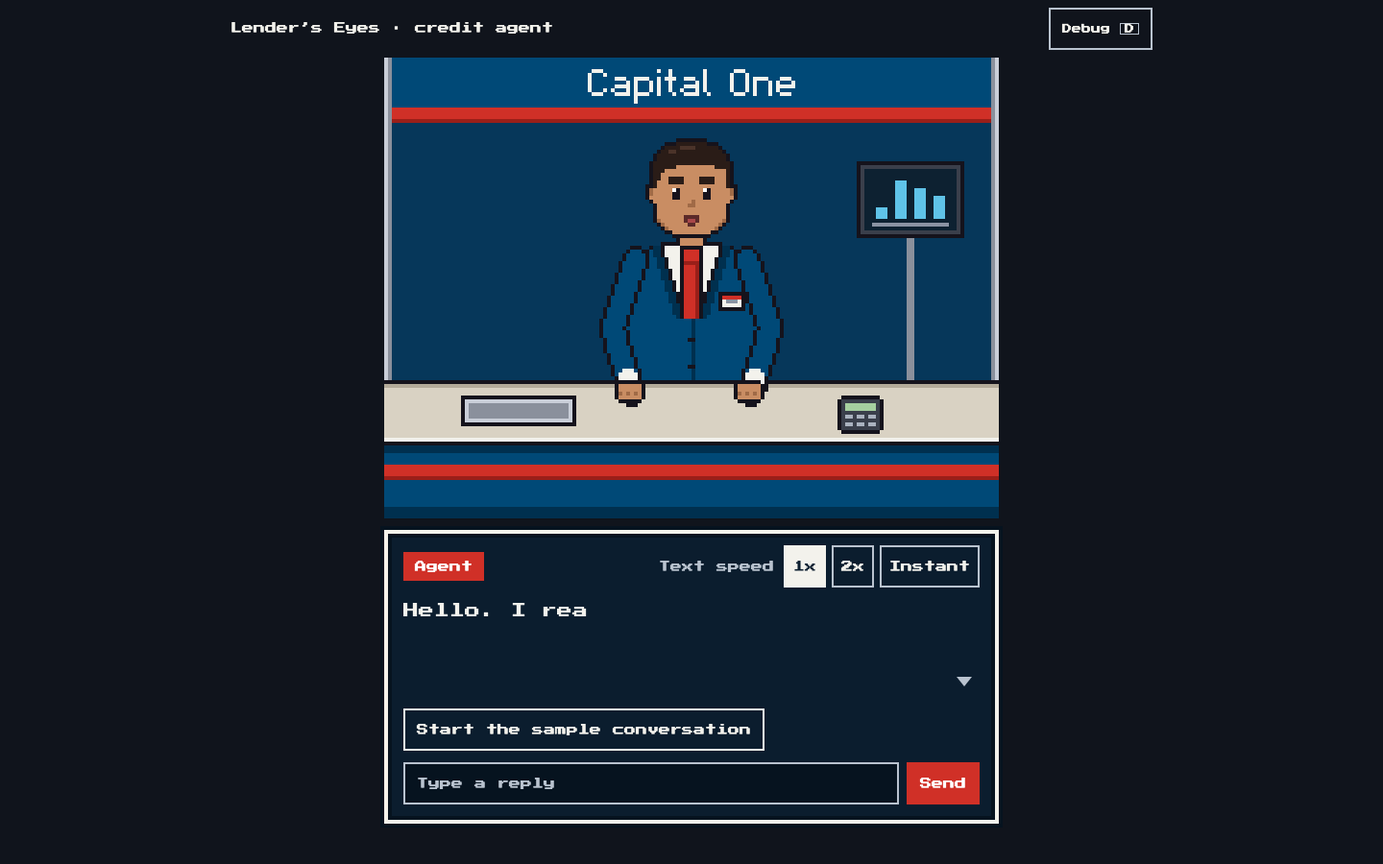
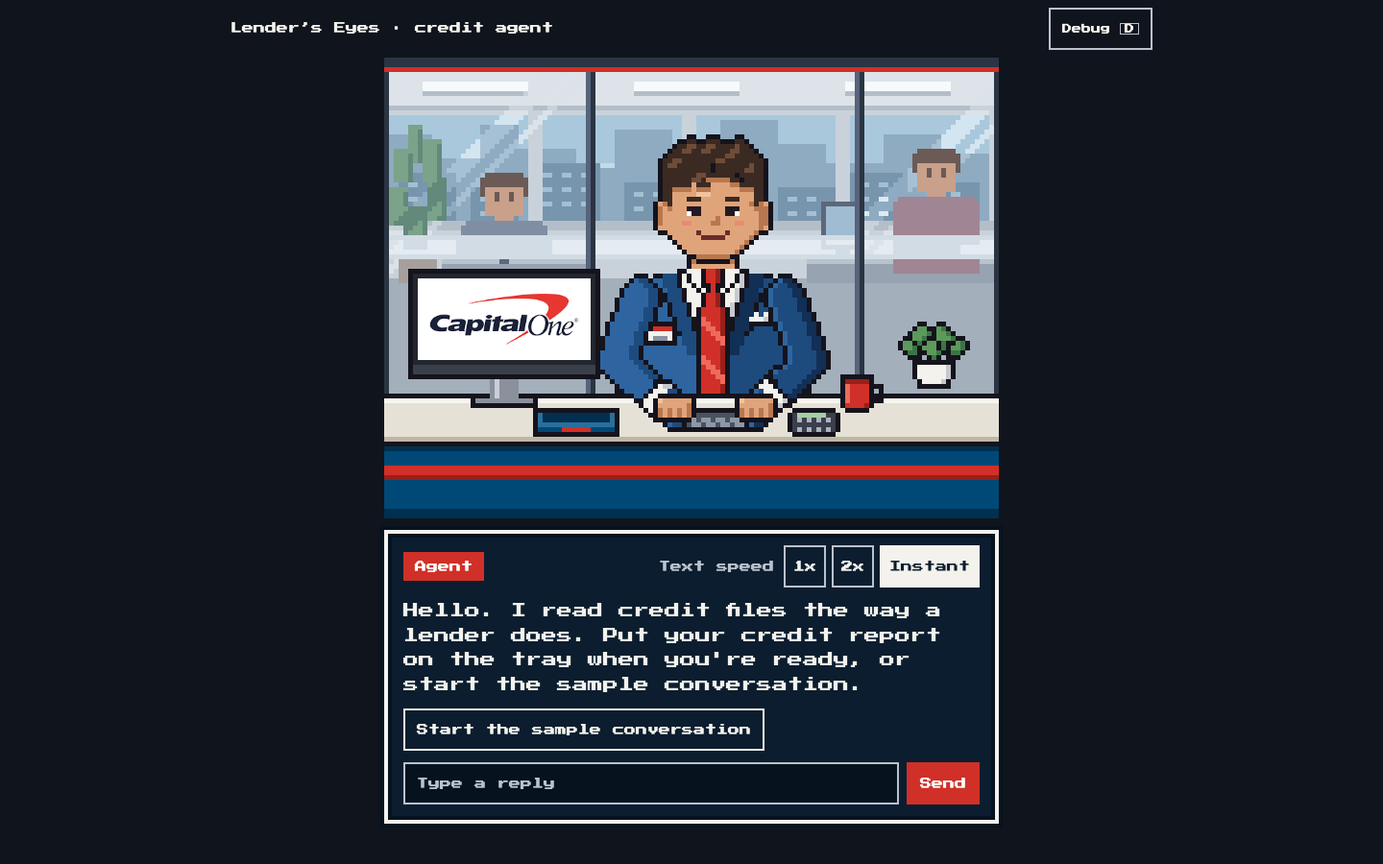
110: open palm clear of the monitor, ART-GUIDE for the 110 style, disclosures, new contact sheets, options and backgrounds; round comparisons stay local (they show the refs)

Changed region(s): [[0.25, 0.0622, 0.75, 0.5289], [0.2812, 0.6222, 0.7188, 0.8089]]

diff --git a/app/npc-concept/src/npc/engine.ts b/app/npc-concept/src/npc/engine.ts
@@ -73,8 +73,8 @@ export const ARM_POSES = {
   raiseL: arm(-1, 41, -3, 28, 'open'),
   waveL1: arm(-2, 35, -5, 18, 'open'),
   waveL2: arm(-1, 34, 1, 16, 'open'),
-  // open palm: forearm out to the side, hand presented at chest height
-  palmL: arm(0, 47, -9, 40, 'openL'),
+  // open palm: forearm raised in front of the chest, palm presented to the customer (clear of the monitor)
+  palmL: arm(-2, 49, 5, 37, 'openL'),
   // reach to the tray (screen left) and back
   reach1L: arm(1, 47, -2, 53, 'open'),
   reach2L: arm(-3, 49, -6, 56, 'open'),

diff --git a/app/npc-concept/src/npc/NpcScene.tsx b/app/npc-concept/src/npc/NpcScene.tsx
@@ -245,7 +245,7 @@ export const NpcScene = forwardRef<NpcHandle, NpcSceneProps>(function NpcScene(p
           type="button"
           className="npc-hotspot"
           style={box(PAPER_HOT, s)}
-          aria-label="Summary sheet on the counter. Open your summary."
+          aria-label="Summary sheet on the desk. Open your summary."
           data-npc-hotspot="paper"
           onClick={() => propsRef.current.onPaperClick?.()}
           onMouseEnter={() => engineRef.current?.setPaperHover(true)}

diff --git a/app/npc-concept/ART-GUIDE.md b/app/npc-concept/ART-GUIDE.md
@@ -1,6 +1,6 @@
 # Credit agent: art guide
 
-The rules for the pixel-art credit agent and its stand. The code in `src/npc/` is the source of truth; this file explains it. Every state, emote and gesture is in `screens/contact-sheet.png` (iPhone 15, WebKit), at 25% in `screens/contact-sheet-small.png`, and at desktop size in `screens/contact-sheet-desktop.png`.
+The rules for the pixel-art credit agent, his desk and the glass wall office behind him (since handoff 110). The code in `src/npc/` is the source of truth; this file explains it. Every state, emote and gesture is in `screens/contact-sheet.png` (iPhone 15, WebKit), at 25% in `screens/contact-sheet-small.png`, and at desktop size in `screens/contact-sheet-desktop.png`. The facial hair options are in `screens/options.png`, the background variants in `screens/backgrounds.png`.
 
 Tone: game look, real help. The agent is calm, warm and direct. No points, levels, jokes or mascot antics.
 
@@ -10,7 +10,7 @@ Tone: game look, real help. The agent is calm, warm and direct. No points, level
 ```
 cd app/npc-concept && pnpm install && pnpm dev --host   # http://localhost:5173 and a Network: URL for the phone
 ```
-The phone on the same wifi opens the `Network:` URL (see `app/DEMO.md`). Tap **Debug** (top right) or press `D` for the debug panel: buttons for every state, emote and gesture, plus "Play sample conversation".
+The phone on the same wifi opens the `Network:` URL (see `app/DEMO.md`). Tap **Debug** (top right) or press `D` for the debug panel: buttons for every state, emote and gesture, the facial hair and background switches, plus "Play sample conversation".
 
 ## Lifting it into 102 (frontend)
 1. Copy `src/npc/` unchanged. It imports nothing from outside the folder except React.
@@ -26,73 +26,100 @@ const reduced = usePrefersReducedMotion()
 <DialogueBox line={line} width={NATIVE_W * scale} speed={speed} onSpeedChange={setSpeed} reducedMotion={reduced}
   onChar={c => npc.current?.talk(c)} onLineDone={() => npc.current?.stopTalking()} chips={chips} onChip={...} onSubmit={...} />
 npc.current?.setState('reading'); npc.current?.emote('concerned'); npc.current?.gesture('point-down')
+// optional since 110: <NpcScene facialHair="moustache" background="evening" ... /> or npc.current?.setFacialHair('stubble')
 ```
 `npc.css` (imported by `index.ts`) uses `npc-` class names only, and its class selectors win over Tailwind's preflight. `src/App.tsx` is a full example, including the sample conversation runner.
 
-**API since 108:** `NpcHandle` and the `DialogueBox` props are unchanged. `NpcScene` gained one optional prop, `wordmarkSrc` (see Wordmark). `useIntegerScale` keeps its signature; on screens under 640 CSS px it no longer reserves a side gutter. `NpcEngine` gained `setOutput()` and `setWordmarkVisible()` (used by `NpcScene`). The canvas backing store is now device resolution, not 160x120: read pixels from a screenshot, not from `getImageData` at native coordinates.
+**API since 110:** nothing removed or renamed. Added, all optional: `NpcScene` props `facialHair` (`'none' | 'moustache' | 'stubble'`, default `'none'`) and `background` (`'day' | 'evening'`, default `'day'`); `NpcHandle.setFacialHair()` and `setBackground()`; `NpcSnapshot.facialHair` and `.background`; exports `FACIAL_HAIR`, `BACKGROUNDS`, `BACKGROUND_NAMES` and their types. `NATIVE_W` x `NATIVE_H` is now 128 x 96 (still 4:3), so the scene is chunkier at the same screen size. `wordmarkSrc` keeps its name; the logo now shows on the desk monitor.
+
+**API since 108 (109 notes):** `NpcHandle` and the `DialogueBox` props are unchanged. `NpcScene` gained one optional prop, `wordmarkSrc` (see Logo). `useIntegerScale` keeps its signature; on screens under 640 CSS px it no longer reserves a side gutter. `NpcEngine` gained `setOutput()` and `setWordmarkVisible()` (used by `NpcScene`). The canvas backing store is now device resolution, not 160x120: read pixels from a screenshot, not from `getImageData` at native coordinates.
 
 ## Style
-- Classic chunky pixel-art character: a big head (26 px of a 64 px visible figure), a bold 1 px `outline` around every shape (head, hair, body, sleeves, hands, held items), flat colours with one shade each, big readable pixels and low detail.
-- The face must read from far away: dark eyes (2x3) with a 1 px white highlight, eyebrows 2 px thick, a clear mouth.
-- Original character: a businessman. Short neat hair with a side shine, navy suit, white shirt, red tie, a small white name badge with a red bar. No hat, coat, magnifying glass or likeness to any existing game character, mascot or real person.
-- Torso only: head, shoulders, arms and hands above the counter.
-- Gestures move the whole arm, never a few pixels, so each one reads in a thumbnail.
-- The backdrop stays calm (navy panel, red band, wordmark) so the face carries the conversation. One ambient touch only: the stand screen, behind the `ambient` flag.
+Target: indie pixel-art avatars (the user's style refs, kept locally in `refs/`, never in the app or the repo). "Do more with less": few, chunky pixels, each one deliberate.
+
+**Checklist** (every round was checked against it, see handoff 110 RESULT):
+1. Reads as the same style as the style refs at phone size: a chunky dark outline (`outline`) around every shape, flat colours with one or two shades per material, hair in chunky tufts with clusters of highlight, eyes with a white highlight.
+2. The agent fills about the same share of the frame as the composition ref: head top at y 15, desk top at y 70 (55 of 96 rows), about 40 of 128 columns wide.
+3. Face friendly and calm, not intense: open eyes, soft 1 px brows set two rows above them, a warm closed smile, a light blush.
+4. Arms and hands thick (9 px sleeves, 9 px hands) with white cuffs.
+5. The tie has a knot, a narrow neck and a blade with two 2 px stripes.
+6. The background has depth but stays behind the agent: cooler, lighter and lower in contrast than him.
+7. No single pixels of noise: details come in pairs or clusters (hair strands 2 px, city windows 2x1, colleagues' eyes 1x2, tie stripes 2 px thick).
+8. Every scaled pixel block is one flat colour (no smoothing; checked with the pixel test).
+
+**The agent** (original character, a friendly businessman): short tufty hair (three tufts, a fringe lock, highlight clusters, two 2 px strands), ears, calm eyes (each 3x2: a dark lid row over a white sclera pixel and a 2 px iris; glances move the iris), soft 1 px brows, small nose shade, blush on both cheeks, a warm closed smile at rest. Navy suit with a light side (screen left, `uniformLight`) and a dark side (`uniform`, `uniformShade` at the edge), lapels with a dark outer edge, white shirt with collar points, red tie with a knot and stripes (`redLight`), pocket square (screen right), name badge (screen left). No pencil, no grey patch, no hat, no likeness to any existing character or real person.
+
+**Facial hair** is its own layer with three settings: `none` (default, clean-shaven), `moustache` (a neat bold moustache over the upper lip), `stubble` (the moustache plus light stubble: a flat darker skin-tone shape over the jaw, chin and upper lip, no dither).
+
+**The scene:** the agent sits behind a desk in front of a glass wall. Behind the glass: a ceiling with three light panels, a back wall with a long window band (sky and a two-row city), two back desks, colleague A seated behind a monitor (facing us), colleague B standing with a mug, a tall plant in the back left corner. The glass has a top rail with a brand red line, two slim dark mullions with a light edge, a frosted band (translucent: what is behind shows as two soft tones) and two pairs of diagonal reflections (a wide and a thin band, done as a lighter-colour map, not a paint stroke). On the desk: a slim monitor at the left showing the official logo, the navy in-tray (drop zone), the keyboard under his hands, the calculator, a red mug and a small plant at the right. The desk top is light with a thin highlight; the front panel is navy with a red stripe and kept short.
 
 ## Native sizes
 | Thing | Size (px) | Where |
 |---|---|---|
-| Canvas | 160 x 120 (4:3) | Whole-number device scale (`useIntegerScale`); iPhone 15 portrait 7x (1120 x 840 device px), desktop 1440 x 900 4x (640 x 480 at dpr 1, 8x device at dpr 2) |
-| Character box | 64 x 72 | Top-left at scene (48, 20). Visible figure head to counter: y 20 to 84 = 64 px, over half the canvas |
-| Head | 24 x 26 | Box (20, 0). Hair rows 0 to 6, hairline 7, forehead 8 to 11, eyes 13 to 15, nose 16 to 17, mouth 19 to 22 |
-| Eyes layer | 12 x 5 | Head (6, 12). Each eye 2 x 3 with a 1 px highlight (left eye x 1-2, right eye x 9-10) |
-| Eyebrows layer | 12 x 3 | Head (6, 9). 4 wide, 2 px thick |
-| Mouth layer | 8 x 4 | Head (8, 19) |
-| Glasses (coach) | 22 x 5 | Head (1, 12). Thin dark frames and temples, clear lenses |
-| Torso | 40 x 48, drawn in code | Box (12, 24). Shoulder joints at box (17, 31) and (46, 31). Hidden by the counter from torso y 40 |
-| Sleeves | 7 px wide (outline), 5 px fill | Thick lines shoulder, elbow, hand; white cuff 4 px before the hand |
-| Hands | rest 8x6, grip 7x7, open 11x9 (three spread fingers and a thumb), point down 7x10, point right 10x7, flat 9x4 | Centred on the hand point of the arm pose |
-| Held items | doc 10x12, doc held 24x18, planner 13x15 | Top-left given by the pose |
-| Counter | top y 84 to 99, front 101 to 119 | Full width. Hides the agent below y 84 |
-| Tray (drop zone) | 30 x 8 at (20, 88) | Tap / keyboard hotspot covers it plus the arrow above |
-| Calculator | 12 x 10 at (118, 88) | `tap-calc` hits it |
-| Summary sheet | 22 x 7, slides from y 85 to y 92 | Ends on the front edge of the counter |
-| Wordmark | pixel text 54 x 9 at (53, 3) | Its own layer (`WORDMARK` in `scene.ts`) in the top band (y 0 to 12) |
-| Stand screen | 24 x 16 at (125, 29) | Ambient only |
+| Canvas | 128 x 96 (4:3) | Whole-number device scale (`useIntegerScale`); iPhone 15 portrait 9x (1152 x 864 device px = 384 x 288 CSS px), desktop 1440 x 900 5x (640 x 480) at dpr 1 |
+| Character box | 49 x 60 | Top-left at scene (44, 15). Visible figure head to desk: y 15 to 70 |
+| Head | 25 x 27 | Box (12, 0), centre column 12. Tufts rows 0 to 1, hair to row 10, brows row 13, eyes 15 to 16, nose 17 to 18, mouth 19 to 22, chin 25 |
+| Eyes layer | 11 x 4 | Head (7, 14). Each eye 3 x 2 (lid row, then sclera pixel and 2 px iris); left eye x 0-2, right eye x 8-10 |
+| Eyebrows layer | 11 x 3 | Head (7, 12). 3 wide, 1 px |
+| Mouth layer | 9 x 4 | Head (8, 19) |
+| Facial hair | stubble 25 x 27 (head-sized), moustache 9 x 2 | Stubble at head (0, 0) under the eyes and mouth; moustache at head (8, 19) over the mouth |
+| Glasses (coach) | 18 x 4 | Head (3, 14) |
+| Torso | 41 x 36 | Box (4, 24). Shoulder joints at box (9, 33) and (39, 33). Hidden by the desk from torso y 31 |
+| Sleeves | 9 px wide (outline), 7 px fill | Shaded: light rim on the left edge, 2 px dark rim on the right; white cuff 3.5 to 6 px back from the hand, dark hem behind it |
+| Hands | rest 9x6, grip 8x7, open 11x9, point down 8x10, point right 10x8, flat 10x4 | Centred on the hand point of the arm pose |
+| Held items | doc 8x10, doc held 20x14, planner 10x12 | Top-left given by the pose |
+| Desk | top y 70 to 79, front panel 80 to 95 | Full width. Hides the agent below y 70 |
+| Monitor | 40 x 23 at (5, 44); screen 36 x 17 at (7, 46) | `MONITOR`, `SCREEN` in `scene.ts` |
+| Tray (drop zone) | 18 x 6 at (31, 73) | Tap / keyboard hotspot covers it plus the arrow above (at least 44 CSS px) |
+| Keyboard | 22 x 5 at (58, 73) | Under the hands in idle |
+| Calculator | 11 x 6 at (84, 73) | `tap-calc` hits it |
+| Mug, desk plant | 9 x 8 at (95, 66); 15 x 14 at (107, 55) | Right side of the desk |
+| Summary sheet | 20 x 5, slides from y 71 to y 75 | Ends on the front edge of the desk |
+| Thinking bubble | 18 x 11 at (82, 5) | |
+| Office | ceiling y 0 to 9, wall 10 to 45 (windows 12 to 33), floor from 46 | Behind the glass; colleague A at (21, 24), colleague B at (111, 19) |
+| Glass | top rail y 0 to 2, mullions x 42 and 98, frosted band y 37 to 41 | Drawn over the office, under the agent |
 
 ## Layers (back to front)
-1. Stand backdrop (`buildBackdrop`): navy panel, top band, red band, thin frame edges
-2. Wordmark (`WORDMARK`): plain pixel text "Capital One", or the official logo file (see Wordmark)
-3. Stand screen (`drawScreen`): only when `ambient` is on; bar chart and blinking cursor, still under reduced motion
-4. Agent, back pass: torso, then the head group (head, eyes, glasses, eyebrows, mouth), composed together so a tilt moves them as one
-5. Counter (`buildCounter`)
-6. Counter props: calculator, tray, document in the tray, summary sheet
+1. Office (`buildOffice`, static): ceiling and lights, back wall, sky and city, back desks, tall plant
+2. Office life (`drawOfficeLife`): the two colleagues; with `ambient` on and motion allowed, colleague A looks down now and then, colleague B lifts the mug, one ceiling light flickers off for 140 ms every ~9 s
+3. Glass (`drawGlass`): reflections (lighter-colour map in two diagonal band pairs), the translucent frosted band, the top rail with the red line, mullions
+4. Agent, back pass: torso, then the head group (head, stubble, eyes, glasses, eyebrows, mouth, moustache), composed together so a tilt moves them as one
+5. Desk (`buildDesk`)
+6. Desk props: monitor (white screen; the logo file sits on it as DOM), keyboard, mug, plant, calculator, tray, document in the tray, summary sheet
 7. Drop zone highlight: marching dashes and a bouncing arrow over the tray
-8. Agent, front pass: arms (outline then navy fill, white cuff), held items, hands. Arms are drawn after the counter so hands can rest on it and reach the tray and calculator
+8. Agent, front pass: arms (outline, shaded fill, cuff, hem), held items, hands. Arms are drawn after the desk so hands can rest on the keyboard and reach the tray and calculator
 9. Thinking bubble
 
-Dropped in 109: the hall (wall, truss, lamps, booths, floor), the passer-by, the poster, the leaflets and the plant. To change the setting (A bank counter, C market stall), replace layers 1, 3 and 5. Keep `AGENT_ORIGIN`, `COUNTER_TOP_Y`, `TRAY`, `CALC` and the paper positions, or move them together with the arm poses that touch them (`reach*`, `tap*`, `pointDownR`, slide hand).
+To change the setting, replace layers 1 to 3 and 5. Keep `AGENT_ORIGIN`, `COUNTER_TOP_Y`, `TRAY`, `CALC`, `KEYBOARD` and the paper positions, or move them together with the arm poses that touch them (`rest*`, `reach*`, `tap*`, `pointDownR`, `explain*`, slide hand).
 
-## Wordmark
-`WORDMARK` stays its own layer. If an official logo file exists at `public/brand/capital-one-logo.svg` or `.png`, `vite.config.ts` finds it at start-up (restart `pnpm dev` after adding it) and `App` passes it to `NpcScene` as `wordmarkSrc`. `NpcScene` shows the image as-is over the wordmark's area of the top band, scaled to fit (`object-fit: contain`), and hides the pixel text. If the file fails to load, the pixel text comes back. Never draw or trace the Capital One logo by hand. Add a logo row to `app/DISCLOSURES.md` when the file is added. Checked with a plain grey test file on 2026-11-07, then removed: no logo file is in the repo.
+## Facial hair and background variants
+- **Facial hair:** `<NpcScene facialHair="none" | "moustache" | "stubble">` or `npc.current.setFacialHair(...)`. Default `none`. Debug panel: "Facial hair" buttons. See `screens/options.png` (A clean-shaven, B neat moustache, C moustache with light stubble, idle, final scene).
+- **Background:** `<NpcScene background="day" | "evening">` or `npc.current.setBackground(...)`. Default `day`. Debug panel: "Background" buttons. A variant only swaps the office colours (`BACKGROUNDS` in `palette.ts`): evening warms the walls and ceiling lights, turns the sky to dusk and lights the city windows. The agent, desk and brand colours never change. See `screens/backgrounds.png`.
+- To add a variant, add an entry to `BACKGROUNDS` with overrides for the `office*`, `sky*`, `city*`, `desk*`, `colleague*`, `frosted*` and `*Shine` names. `setPalette()` overrides are applied on top of the background.
+
+## Authoring
+The agent's pixels live in `src/npc/sprites/art.ts` as rows of palette characters (`HEAD_ART`, `EYES_ART`, `TORSO_ART` and so on). In 110 they were generated by a small design script (Python, outside the repo) that builds each part from fills, an automatic outside outline, mirrored collar shapes and hand-placed highlights, then writes `art.ts`. The TS file is the source of truth now: edit the rows by hand (every row of a sprite must have the same width; `sprite()` throws if not). `sprites/character.ts` places the parts; `scene.ts` draws the office and desk in code with palette indices.
+
+## Logo
+The official file `public/brand/capital-one-logo.png` (231 x 218, artwork in the box (5, 71) to (225, 146) on white) is shown unchanged on the desk monitor's screen. `vite.config.ts` finds it at start-up and `App` passes it to `NpcScene` as `wordmarkSrc`. `NpcScene` puts a white box over `SCREEN` and scales the image inside so its artwork fits with a small margin (smoothing is allowed for this image only; only white margin falls outside the box). If the file is missing or fails to load, the monitor shows a plain dashboard drawn in code (bars and lines, never a drawn logo). Never draw or trace the Capital One logo. The logo row is in `app/DISCLOSURES.md`.
 
 ## Palette
-One file: `src/npc/palette.ts`. Sprites store palette indices (one character per pixel, `.` is transparent), never colours. Recolouring is a palette change only: `npc.current.setPalette({ uniform: '#1f6b45', uniformShade: '#124a2f', uniformLight: '#3d8c63' })` turns the uniform green and leaves the stand alone (screenshot: the `palette-recolour` tile in `screens/contact-sheet.png`). The stand's navy has its own entries (`brandNavy*`, `standPanel`). `red` is shared on purpose: tie, badge bar, planner and stand bands are all the brand red. The coach glasses are `outline` (dark), not red. The Capital One hex values are approximations; swap in the official ones.
+One file: `src/npc/palette.ts`. Since 110 the stand entries (`standPanel`, `hall*`, `booth*` and so on) are unused but kept so indices stay stable; new colours are appended at the end. Sprites store palette indices (one character per pixel, `.` is transparent), never colours. Recolouring is a palette change only: `npc.current.setPalette({ uniform: '#1f6b45', uniformShade: '#124a2f', uniformLight: '#3d8c63' })` turns the suit green (arms included) and leaves the desk and office alone (screenshot: the `palette-recolour` tile in `screens/contact-sheet.png`). The desk's navy has its own entries (`brandNavy*`). `red` is shared on purpose: tie, badge bar, planner, the desk stripe, the tray label and the glass rail line are all the brand red. The coach glasses are `outline` (dark), not red. The Capital One hex values are approximations; swap in the official ones.
 
 | Char | Name | Hex | Group |
 |---|---|---|---|
 | `k` | outline | `#15131c` | Character and props |
-| `s` | skin | `#c98d63` | Character and props |
-| `S` | skinShade | `#a06a46` | Character and props |
-| `h` | hair | `#2a1c17` | Character and props |
-| `H` | hairLight | `#4b3329` | Character and props |
-| `e` | eye | `#17121c` | Character and props |
+| `s` | skin | `#e0a47a` | Character and props |
+| `S` | skinShade | `#b9774f` | Character and props |
+| `h` | hair | `#3b2a22` | Character and props |
+| `H` | hairLight | `#6e4c38` | Character and props |
+| `e` | eye | `#211a22` | Character and props |
 | `o` | eyeLight | `#ffffff` | Character and props |
-| `m` | mouth | `#5b2a29` | Character and props |
-| `n` | mouthInner | `#a9484a` | Character and props |
-| `u` | uniform | `#004977` | Character and props |
-| `U` | uniformShade | `#00304f` | Character and props |
-| `v` | uniformLight | `#2a6f9c` | Character and props |
+| `m` | mouth | `#6a2c2a` | Character and props |
+| `n` | mouthInner | `#b5524c` | Character and props |
+| `u` | uniform | `#1d4b7e` | Character and props |
+| `U` | uniformShade | `#122f55` | Character and props |
+| `v` | uniformLight | `#2e65a0` | Character and props |
 | `r` | red | `#d03027` | Character and props |
 | `R` | redShade | `#9a1f19` | Character and props |
 | `w` | shirt | `#f3f2ec` | Character and props |
@@ -113,8 +140,8 @@ One file: `src/npc/palette.ts`. Sprites store palette indices (one character per
 | `l` | spot | `#ffe7a6` | Scene (unused since 109) |
 | `g` | standFrame | `#c9ced8` | Scene |
 | `G` | standFrameShade | `#8a909c` | Scene |
-| `b` | counterTop | `#d9d2c3` | Scene |
-| `B` | counterTopShade | `#b3ab9a` | Scene |
+| `b` | counterTop | `#e6e1d7` | Scene |
+| `B` | counterTopShade | `#bfb6a6` | Scene |
 | `x` | screen | `#0d2131` | Scene |
 | `X` | screenLit | `#5fc3e8` | Scene |
 | `z` | silhouette | `#0d1119` | Scene (unused since 109) |
@@ -127,56 +154,99 @@ One file: `src/npc/palette.ts`. Sprites store palette indices (one character per
 | `M` | brandNavy | `#004977` | Scene |
 | `L` | brandNavyShade | `#00304f` | Scene |
 | `V` | brandNavyLight | `#2a6f9c` | Scene |
+| `1` | skinLight | `#f0c39c` | Character and props |
+| `2` | blush | `#e98a76` | Character and props |
+| `3` | stubble | `#b98c6e` | Character and props |
+| `4` | redLight | `#ef6a5c` | Character and props |
+| `5` | counterTopLight | `#f8f6f1` | Character and props |
+| `6` | keyboard | `#4a5260` | Character and props |
+| `7` | keyboardKey | `#8e97a6` | Character and props |
+| `8` | mug | `#d03027` | Character and props |
+| `9` | leaf | `#5b9a5a` | Character and props |
+| `0` | leafShade | `#3c7445` | Character and props |
+| `D` | skyTop | `#a9c8dc` | Office (day value; evening swaps it) |
+| `E` | skyLow | `#c3dae7` | Office (day value; evening swaps it) |
+| `O` | cityFar | `#8eabc1` | Office (day value; evening swaps it) |
+| `Q` | cityNear | `#7895ae` | Office (day value; evening swaps it) |
+| `T` | cityWindow | `#a4bfd2` | Office (day value; evening swaps it) |
+| `Z` | officeWall | `#c9d2da` | Office (day value; evening swaps it) |
+| `!` | officeWallShade | `#b3bec9` | Office (day value; evening swaps it) |
+| `@` | ceiling | `#dde3e8` | Office (day value; evening swaps it) |
+| `#` | ceilingLight | `#f7fafc` | Office (day value; evening swaps it) |
+| `$` | officeFloor | `#a3afbb` | Office (day value; evening swaps it) |
+| `%` | deskBack | `#b9c3cc` | Office (day value; evening swaps it) |
+| `^` | deskBackShade | `#97a3b0` | Office (day value; evening swaps it) |
+| `&` | monitorBack | `#5d6878` | Office (day value; evening swaps it) |
+| `*` | monitorBackLit | `#9fbcd2` | Office (day value; evening swaps it) |
+| `+` | colleagueSkin | `#c9a08a` | Office (day value; evening swaps it) |
+| `=` | colleagueHair | `#6b5a55` | Office (day value; evening swaps it) |
+| `~` | colleagueTopA | `#7f8ea3` | Office (day value; evening swaps it) |
+| `-` | colleagueTopB | `#a08595` | Office (day value; evening swaps it) |
+| `_` | officePlant | `#7ba38a` | Office (day value; evening swaps it) |
+| `:` | officePlantShade | `#62897a` | Office (day value; evening swaps it) |
+| `;` | officePot | `#a6a09c` | Office (day value; evening swaps it) |
+| `<` | glassFrame | `#2b3442` | Office (day value; evening swaps it) |
+| `>` | glassFrameLight | `#56637a` | Office (day value; evening swaps it) |
+| `?` | frosted | `#e4ebf1` | Office (day value; evening swaps it) |
+| `/` | frostedLine | `#d2dce5` | Office (day value; evening swaps it) |
+| `\|` | shine | `#e9f1f7` | Office (day value; evening swaps it) |
+| `{` | skyShine | `#d3e5f0` | Office (day value; evening swaps it) |
+| ``` | skyLowShine | `#dceaf2` | Office (day value; evening swaps it) |
+| `}` | cityShine | `#a7c1d4` | Office (day value; evening swaps it) |
+| `[` | wallShine | `#dbe2e8` | Office (day value; evening swaps it) |
+| `]` | screenWhite | `#ffffff` | Desk props |
+| `,` | bezel | `#22262e` | Desk props |
+| `"` | bezelLight | `#3a404b` | Desk props |
 
 UI colours (DOM, mirrored as CSS variables in `npc.css`): `uiBg #0b1d2e`, `uiBgDeep #06131f`, `uiText #f3f2ec`, `uiMuted #b9c3cf`, `uiAccent #d03027`, `uiFocus #ffd84d`, page `#10141c`.
 
 ## Animation system
 - Fixed step: 60 updates per second (`STEP_MS`), driven by `requestAnimationFrame` with an accumulator. Timing does not depend on the display's refresh rate. Positions are whole pixels.
-- The frame is built in a 160x120 palette-index buffer, then copied onto the visible canvas at the whole device scale with smoothing off (`setOutput`). The canvas box is a whole number of CSS px with a matching backing store, and `NpcScene` puts its top-left corner on a whole CSS px. The browser never rescales it (see iPhone).
+- The frame is built in a 128x96 palette-index buffer, then copied onto the visible canvas at the whole device scale with smoothing off (`setOutput`). The canvas box is a whole number of CSS px with a matching backing store, and `NpcScene` puts its top-left corner on a whole CSS px. The browser never rescales it (see iPhone).
 - API: `setState(state)`, `emote(emote)`, `gesture(gesture)`, `talk(char)`, `stopTalking()`, `setTrayDoc`, `setDropHover`, `clearPaper`, `setPalette`, `reset`, `settleIn()` (ms until a one-shot state has finished), `snapshot()`.
 - Emotes and gestures combine with any state. A non-neutral emote wins the eyebrows, except in `asking`, which keeps its eyebrows up unless the emote is `concerned`. `thinking` shows quizzical eyebrows with `neutral`. An emote's eyes replace the plain open eyes only; a state's own eyes (reading, listening, glances, looking at the calculator) win.
-- Idle never freezes: the breathing bob (1 px) and blinks run in every state unless reduced motion is on. Glances (1 px eye shift) run in `idle`, after the wave in `greeting` and after the switch in `coach`.
+- Idle never freezes: the breathing bob (1 px) and blinks run in every state unless reduced motion is on. Glances (the iris moves inside the eye) run in `idle`, after the wave in `greeting` and after the switch in `coach`.
 - `setState()` clears any running gesture, so call `gesture()` after `setState()`, not before.
 
 ## States: frames and timings
 | State | Frames | Timing |
 |---|---|---|
-| `idle` | arms rest on the counter (1); breathing 2; blink 3 (half, closed, half); glance 1 of left, right, down | bob every 750 ms; blink 140 ms, every 2 to 6 s; glance 0.6 to 1.1 s, every 2.5 to 6 s |
+| `idle` | both hands on the keyboard (1); breathing 2; blink 3 (half, closed, half); glance 1 of left, right, down | bob every 750 ms; blink 140 ms, every 2 to 6 s; glance 0.6 to 1.1 s, every 2.5 to 6 s |
 | `greeting` | left arm: raise, wave A, wave B (3); open hand by the head | raise 150 ms, wave swaps every 200 ms until 1650 ms, then rest |
 | `talking` | mouth cycles small, open, wide, open, small, closed | 75 ms per mouth frame; open while a letter was printed in the last 130 ms; punctuation closes it at once |
-| `listening` | eyes down; head nod 2 (0, +1 px) | two 180 ms nods every 2.2 s |
-| `asking` | open palm out at chest height (1); head tilt (row shear, 2 px at the top); eyebrows raised | static pose |
+| `listening` | eyes down (lid lowered); head nod 2 (0, +1 px) | two 180 ms nods every 2.2 s |
+| `asking` | open palm presented in front of the chest (1); head tilt (row shear, 2 px at the top); eyebrows raised | static pose |
 | `receive-document` | left arm 6 keyframes: reach 1, reach 2, take (hand on the tray), back 2, back 1, hold | 0, 200, 450, 700, 950, 1200 ms; document leaves the tray at 600 ms; lean 3 px from 200 to 950 ms |
 | `reading` | both hands hold the document at the chest (1); eyes 4 (down-left, down, down-right, half) | one line every 1.5 s (450, 450, 450, 150 ms) |
 | `thinking` | right hand to chin, forearm up across the chest (1); eyes up-right; bubble dots 3 | dots step every 400 ms |
-| `explaining` | right hand points down at the front-centre of the counter, where the summary lands (2: tap +1 px) | 450 ms per frame |
+| `explaining` | right hand points down at the front-centre of the desk, where the summary lands (2: tap +1 px) | 450 ms per frame |
 | `slide-paper` | flat right hand rides on the sheet as it slides to the front edge, retract (1), glow 4 | push 250 to 1000 ms, retract to 1200 ms, glow 1000 to 1600 ms (once); sheet clickable from 1000 ms |
 | `coach` | left hand to the face 2, glasses on, rest, planner up | 0, 250, glasses at 450, 600, 850 ms; glasses stay on in every later state (coach mode) |
 
 Emotes change eyebrows, eyes and mouth together:
 | Emote | Eyebrows | Eyes | Mouth at rest | Talk frames (small, open, wide) |
 |---|---|---|---|---|
-| `neutral` | level, 2 px | open 2x3 with highlight | flat line, 4 px | small, open, wide |
-| `warm` | soft arch | slightly narrowed (lower lid) | small smile, 8 px with corners up | smile-small, open, wide |
-| `concerned` | inner ends up (slanted) | softer: upper lid down | slight frown | small, small, open (restrained) |
+| `neutral` | level, 1 px | open: lid, sclera, iris | warm closed smile, 7 px | small, open, wide |
+| `warm` | soft arch | narrowed (iris row shaded) | wide smile, 9 px with corners up | smile-small, open, wide |
+| `concerned` | inner ends up (slanted) | softer: outer lid corners down | slight frown | small, small, open (restrained) |
 | `pleased` | raised arch | happy (closed upward arcs) | open smile with teeth | smile-small, grin, wide |
 
 Gestures move the whole arm:
 | Gesture | Arm and pose | Duration |
 |---|---|---|
 | `wave` | left: hand up by the head, open hand swings 7 px | 1600 ms, 2 frames at 200 ms |
-| `open-palm` | left: forearm out to the side, open palm at chest height | 1800 ms |
-| `point-down` | right: arm crosses the body to the tray, finger down at its right edge | 2000 ms |
+| `open-palm` | left: forearm raised in front of the chest, open palm presented (clear of the monitor) | 1800 ms |
+| `point-down` | right: arm crosses the body to the in-tray, finger down at its right edge | 2000 ms |
 | `point-side` | right: arm straight out to screen right, finger pointing; eyes right | 2000 ms |
 | `chin` | right: hand to chin, forearm up across the chest; eyes up-right | 2500 ms |
 | `tap-calc` | right: arm out to the calculator, finger taps it; eyes down-right; display flickers | 2000 ms, 2 frames at 220 ms |
 | `none` | back to the state's arms | |
 
-Left and right always mean screen left and right. At 25% size the hardest pair to tell apart is `neutral` vs `warm` (a few pixels of mouth and brow), then `wave` vs `open-palm` (both the left hand open, head height vs chest height). See `screens/contact-sheet-small.png`.
+Left and right always mean screen left and right. At 25% size the hardest pair to tell apart is `neutral` vs `warm` (both smile; warm is wider with narrowed eyes), then `wave` vs `open-palm` (both the left hand open, head height vs chest height). See `screens/contact-sheet-small.png`.
 
 ## How to add a state
 1. Add the name to `AGENT_STATES` in `engine.ts` (TypeScript then lists every place that needs it).
-2. If it needs new arm positions, add them to `ARM_POSES` (elbow point, hand point, hand sprite, `grounded` if the hand rests on the counter). Move the whole arm. If it needs a new face part, add a sprite to `EYES`, `BROWS`, `MOUTHS` or `ITEMS` in `sprites/character.ts`, using palette characters only.
+2. If it needs new arm positions, add them to `ARM_POSES` (elbow point, hand point, hand sprite, `grounded` if the hand rests on the desk). Move the whole arm. If it needs a new face part, add rows to `EYES_ART`, `BROWS_ART`, `MOUTHS_ART` or `ITEMS_ART` in `sprites/art.ts`, using palette characters only.
 3. Add a `case` in `stateFrame()` that returns the arms, items, eyes and head offsets for a given time. Use `seq(T, [[ms, pose], ...])` for keyframes and the `rm` flag for the reduced-motion end pose.
 4. If it is a one-shot, add its length to `SEQUENCE_MS`, and any side effect (an item changing hands) to `applyStateEffects()`.
 5. Add a sentence to `STATE_TEXT` in `describe.ts` for the canvas label.
@@ -186,15 +256,16 @@ Left and right always mean screen left and right. At 25% size the hardest pair t
 - Do keep the character original (see Style).
 - Do keep every pixel on the native grid: whole-number positions, no rotation, no smoothing, no sub-pixel easing. Fake tilts with row shears and depth with layer order.
 - Do outline every part with `outline` and keep sprites palette-indexed so a recolour stays a palette change. Parts drawn in code (torso, items, bubble) use palette indices too.
-- Do keep new colours in `palette.ts`, appended at the end so indices stay stable; keep the stand and the suit on separate entries.
-- Don't draw or trace the Capital One logo. The wordmark is pixel text or the official file.
+- Do keep new colours in `palette.ts`, appended at the end so indices stay stable; keep the desk and the suit on separate entries, and keep office colours light, cool and low in contrast so the agent pops.
+- Don't draw or trace the Capital One logo. It is the official file on the monitor or nothing.
+- Don't commit or show the reference images (`refs/`, gitignored) or the round comparisons (`screens/compare-round*.png`, gitignored).
 - Don't add jokes, points, levels or celebratory effects. Concerned news stays kind: inner brows up, softer eyes, slight frown, no tears.
 - Don't bake the character into one image; each layer has its own frames so expressions and gestures combine.
 - Don't put dialogue text on the canvas. It is DOM text (see Accessibility).
 
 ## iPhone
-- **Scale:** `useIntegerScale` picks the largest whole device scale that fits. iPhone 15 portrait is 393 CSS px at dpr 3 = 1179 device px, so 1179 / 160 gives 7x (1120 x 840 device px). Under 640 CSS px wide there is no side gutter, so the scene runs edge to edge.
-- **No blur, no dropped columns:** 7x at dpr 3 is 373.333 CSS px, which layout cannot store exactly; WebKit then painted the canvas 1119 px wide and drew one native column 6 px wide. So the canvas box is rounded up to whole CSS px (374), its backing store matches it in device px (1122), the engine draws the frame at 7x inside it, and `NpcScene` nudges its top-left onto a whole CSS px. Checked: 0 of 19,200 7x7 blocks not flat.
+- **Scale:** `useIntegerScale` picks the largest whole device scale that fits. iPhone 15 portrait is 393 CSS px at dpr 3 = 1179 device px, so 1179 / 128 gives 9x (1152 x 864 device px, exactly 384 x 288 CSS px). Under 640 CSS px wide there is no side gutter, so the scene runs edge to edge.
+- **No blur, no dropped columns:** (109 notes, still in place) 7x at dpr 3 was 373.333 CSS px, which layout cannot store exactly; WebKit then painted the canvas 1119 px wide and drew one native column 6 px wide. So the canvas box is rounded up to whole CSS px (374), its backing store matches it in device px (1122), the engine draws the frame at 7x inside it, and `NpcScene` nudges its top-left onto a whole CSS px. Checked: 0 of 19,200 7x7 blocks not flat.
 - **Layout (portrait):** header (title and Debug button) in a slim row, the scene full width under it, the dialogue box below. Safe areas: `viewport-fit=cover` and `env(safe-area-inset-*)` padding on the page; the pinned reply row also respects the side insets.
 - **Reply row:** on an iPhone 15 the first line, the chip and the scene fit on screen; the reply row starts just below the fold (scroll, or tap it to pin it above the keyboard). A sticky reply row was tried and dropped: it covered the end of long agent lines.
 - **Keyboard:** when the reply box is focused on a touch screen (`pointer: coarse`), the reply row is pinned just above the on-screen keyboard. It uses `visualViewport` (offsetTop + height), fixed position, and keeps its old space so nothing above it jumps. Tapping Send keeps focus (and the keyboard) in the reply box. The reply input is 16 px on phones so Safari does not zoom in. While a text box has focus on a touch screen, `useIntegerScale` ignores window resizes, so a shrinking window cannot collapse the scene.
@@ -208,21 +279,21 @@ The brief is Capital One's "Make credit accessible", so the agent has to work fo
 
 **Dialogue is real text.** `DialogueBox` renders each line as DOM text inside `<p aria-live="polite" aria-atomic="true">`. The live region holds one plain copy of the line for screen readers ("Agent says: ...", visually hidden), next to the visible typing layer, which is `aria-hidden` and built from one span per character. The typewriter only changes a class on characters not yet printed (`color: transparent`), never the text, so a screen reader hears each line once, in full. Characters do not jump between lines while typing, because the space for the whole line is already reserved.
 
-**The canvas describes itself.** The canvas has `role="img"` and an `aria-label` rebuilt from the engine snapshot on every state, emote or scene change (`describe.ts`), for example: "Credit agent at the Capital One stand, reading your document line by line. Expression: concerned but kind. A summary sheet is at the front of the counter."
+**The canvas describes itself.** The canvas has `role="img"` and an `aria-label` rebuilt from the engine snapshot on every state, emote or scene change (`describe.ts`), for example: "Credit agent at his desk in a Capital One office, reading your document line by line. Expression: concerned but kind. A summary sheet is at the front of the desk."
 
 **Keyboard.** Every control is a native button, radio or input with a visible focus ring (3px `#ffd84d`, offset 2 to 3px). Tab order: Debug button, tray, text speed, next, quick replies, reply box, Send.
 | Control | Keys |
 |---|---|
 | Drop zone (tray) | Tab to it (keyboard focus lights it up like a drag), Enter or Space opens the file picker; picking a file fires `onFileDrop` just like a drop |
-| Summary sheet (once it is on the counter) | Tab to it, Enter or Space fires `onPaperClick` |
+| Summary sheet (once it is on the desk) | Tab to it, Enter or Space fires `onPaperClick` |
 | Next / show whole line | Tab to the arrow button, or press Space anywhere outside a control |
 | Text speed | Tab to the group, arrow keys switch 1x, 2x and Instant |
 | Quick replies, reply box, Send | Tab, Enter |
 | Debug panel | `D` toggles it (not while typing) or the Debug button; focus moves to its heading; every state, emote, gesture and scene button is a normal button with `aria-pressed` |
 
-The canvas hotspots (tray and sheet) are transparent DOM buttons placed over the art, so they are in the tab order and keep the canvas purely visual. Their focus ring has a dark halo (`#15131c`) on both sides, so it stays visible (at least 3:1) on the navy stand and on the beige counter.
+The canvas hotspots (tray and sheet) are transparent DOM buttons placed over the art, so they are in the tab order and keep the canvas purely visual. Their focus ring has a dark halo (`#15131c`) on both sides, so it stays visible (at least 3:1) on the light office, the navy tray and the light desk.
 
-**Reduced motion.** With `prefers-reduced-motion: reduce` (or `reducedMotion` forced on), the following are off: the breathing bob, blinks, glances, nods, eye scanning, the screen animation, the drop-arrow bounce, the paper slide and glow, mouth flaps and the typewriter (text appears at once) and the blinking next arrow. State changes still show instantly in their end pose: the paper is on the front edge and clickable at once, the coach glasses go on at once, the thinking bubble shows three still dots, and the greeting shows a raised hand for 1.5 s.
+**Reduced motion.** With `prefers-reduced-motion: reduce` (or `reducedMotion` forced on), the following are off: the breathing bob, blinks, glances, nods, eye scanning, the office life (colleagues, light flicker), the drop-arrow bounce, the paper slide and glow, mouth flaps and the typewriter (text appears at once) and the blinking next arrow. State changes still show instantly in their end pose: the paper is on the front edge and clickable at once, the coach glasses go on at once, the thinking bubble shows three still dots, and the greeting shows a raised hand for 1.5 s.
 
 **Contrast (WCAG 2.2 AA).** Computed with the WCAG relative-luminance formula. Unchanged in 109 (same UI colours):
 | Pair | Colours | Ratio | Needed |
@@ -233,11 +304,11 @@ The canvas hotspots (tray and sheet) are transparent DOM buttons placed over the
 | Selected speed, selected Debug button | `#0b1d2e` on `#f3f2ec` | 15.23:1 | 4.5:1 |
 | Reply text / placeholder | `#f3f2ec` / `#b9c3cf` on `#06131f` | 16.71:1 / 10.50:1 | 4.5:1 |
 | Focus ring on dialogue / page | `#ffd84d` on `#0b1d2e` / `#10141c` | 12.35:1 / 13.33:1 | 3:1 |
-| Hotspot focus halo on counter; ring on halo | `#15131c` on `#d9d2c3`; `#ffd84d` on `#15131c` | 12.22:1; 13.30:1 | 3:1 |
+| Hotspot focus halo on the desk; ring on halo | `#15131c` on `#e6e1d7`; `#ffd84d` on `#15131c` | 14.11:1; 13.30:1 | 3:1 |
 | Page title, Debug button text | `#f3f2ec` on `#10141c` | 16.44:1 | 4.5:1 |
 
 **Text size.** All sizes are in rem. At 200% root font size the dialogue box grows and wraps, and the scene steps down to the next whole scale instead of overlapping (checked in 108; the 109 layout keeps the same rem rules).
 
-**Checked with Playwright** (2026-11-07): WebKit `iPhone 15` profile and Chromium 1440 x 900, reduced motion, keyboard-only pass, tray tap, drag and drop, the sample conversation. Results are in handoff 109's RESULT. Screens: `screens/iphone-page.png`, `screens/iphone-reply-focused.png`, `screens/iphone-reduced-motion.png`, `screens/desktop-1440.png`.
+**Checked with Playwright** (2026-11-07, again after the 110 redraw): WebKit `iPhone 15` profile and Chromium 1440 x 900, reduced motion, keyboard-only pass, tray tap, drag and drop, the sample conversation. Results are in handoffs 109 and 110 RESULT. Screens: `screens/iphone-page.png`, `screens/iphone-reply-focused.png`, `screens/iphone-reduced-motion.png`, `screens/desktop-1440.png`.
 
 **Not covered yet:** no real screen-reader test (VoiceOver or NVDA), only the DOM and ARIA checks above; forced colours not checked; the iPhone checks ran in emulation, not on a device.

diff --git a/app/DISCLOSURES.md b/app/DISCLOSURES.md
@@ -16,6 +16,9 @@ Required by the WHACK Code of Conduct. Missing a disclosure means disqualificati
 | Playwright MCP (@playwright/mcp) | Lets Claude Code open and screenshot the app to check the UI | partner, mihael (108 visual and accessibility checks) |
 | Playwright library 1.56.1 (Apache-2.0) with WebKit 26 (`iPhone 15` profile) and Chromium headless shell | 109: screenshots of every state, emote and gesture, contact sheets and the iPhone/desktop checks. Run from a script outside the repo; not part of the app | mihael |
 | Pillow 12.1.1 (Python, MIT-CMU) | 109: builds the contact sheets and the pixel test (every scaled block one flat colour). Outside the repo | mihael |
+| Playwright library and Pillow (same versions as above) | 110: art-direction rounds (`screens/compare-roundN.png`, local only, not committed because they show the reference images), contact sheets, `options.png`, `backgrounds.png`, iPhone/desktop checks. Run from scripts outside the repo | mihael |
+| Sprite design script (Python + Pillow, written by Claude Code during the event, kept outside the repo) | 110: builds the agent's sprite rows from simple shapes (fills, outside outline, mirrored collar) and writes `app/npc-concept/src/npc/sprites/art.ts`; the TS file is the source of truth | mihael |
+| claude-pxl (crsolver/claude-pxl, MIT) and pixel-mcp (willibrandon/pixel-mcp, MIT) | 110: checked as pixel-art tools, licences read on GitHub. Not used: pxl is a second sprite format with a PNG build step (our rig composes palette-indexed layers at runtime); pixel-mcp needs Aseprite, which is not installed. The idea of authoring sprites as code with an automatic outside outline is common to pxl and our design script | mihael |
 | Claude Code web search | 108: looked for a pixel-art Claude Code skill. Candidates found (all MIT): sprite-forge (tdimino/claude-code-minoan), pixel-art (wanshuiyin/Auto-claude-code-research-in-sleep), pixel-art-sprites (AbsolutelySkilled). None used, see handoff 108 RESULT | mihael |
 
 ## Libraries
@@ -40,6 +43,7 @@ Required by the WHACK Code of Conduct. Missing a disclosure means disqualificati
 | Press Start 2P font by CodeMan38 | 108 dialogue box and page heading | https://fonts.google.com/specimen/Press+Start+2P via https://fontsource.org/fonts/press-start-2p, SIL Open Font License 1.1 |
 | Pixel art: credit agent, stand, hall, props, pixel font for the wordmark | 108 NPC concept | Drawn by us in code during the event (`app/npc-concept/src/npc/`). No outside art assets |
 | Pixel art redraw: chunky businessman agent, close-up stand, counter props | 109 NPC art pass | Drawn by us in code during the event (`app/npc-concept/src/npc/`). Original character; the style brief named a generic "pixel detective" sprite look only. No outside art assets |
+| Pixel art redraw: friendly businessman at a desk, glass wall office with colleagues (day and evening), desk, monitor, keyboard, mug, plant, in-tray, facial hair layer | 110 NPC art direction pass | Drawn by us in code during the event (`app/npc-concept/src/npc/`). Original character. The user's reference images (two avatar style refs, a composition frame, two detail frames) were used for style and framing only; they are gitignored in `app/npc-concept/refs/`, never shown in the app, and nothing was traced or copied from them |
 | "Capital One" name | 109 stand wordmark (plain pixel text in our own font) | Capital One name used with the sponsor's permission for their challenge. No logo file added yet; add a logo row here once `app/npc-concept/public/brand/capital-one-logo.svg` or `.png` is added |
 | "Capital One" name and navy/red colours | 108 stand placeholder wordmark and palette | Capital One branding allowed by the team (handoff 108). The wordmark is plain pixel text, not their logo; swap for the official asset. Hex values are approximations |
 | Capital One logo (official file app/npc-concept/public/brand/capital-one-logo.png) | 109 wordmark layer, 110 desk monitor | Capital One name and logo used with the sponsor's permission for their challenge. Shown unchanged, never redrawn or traced |
